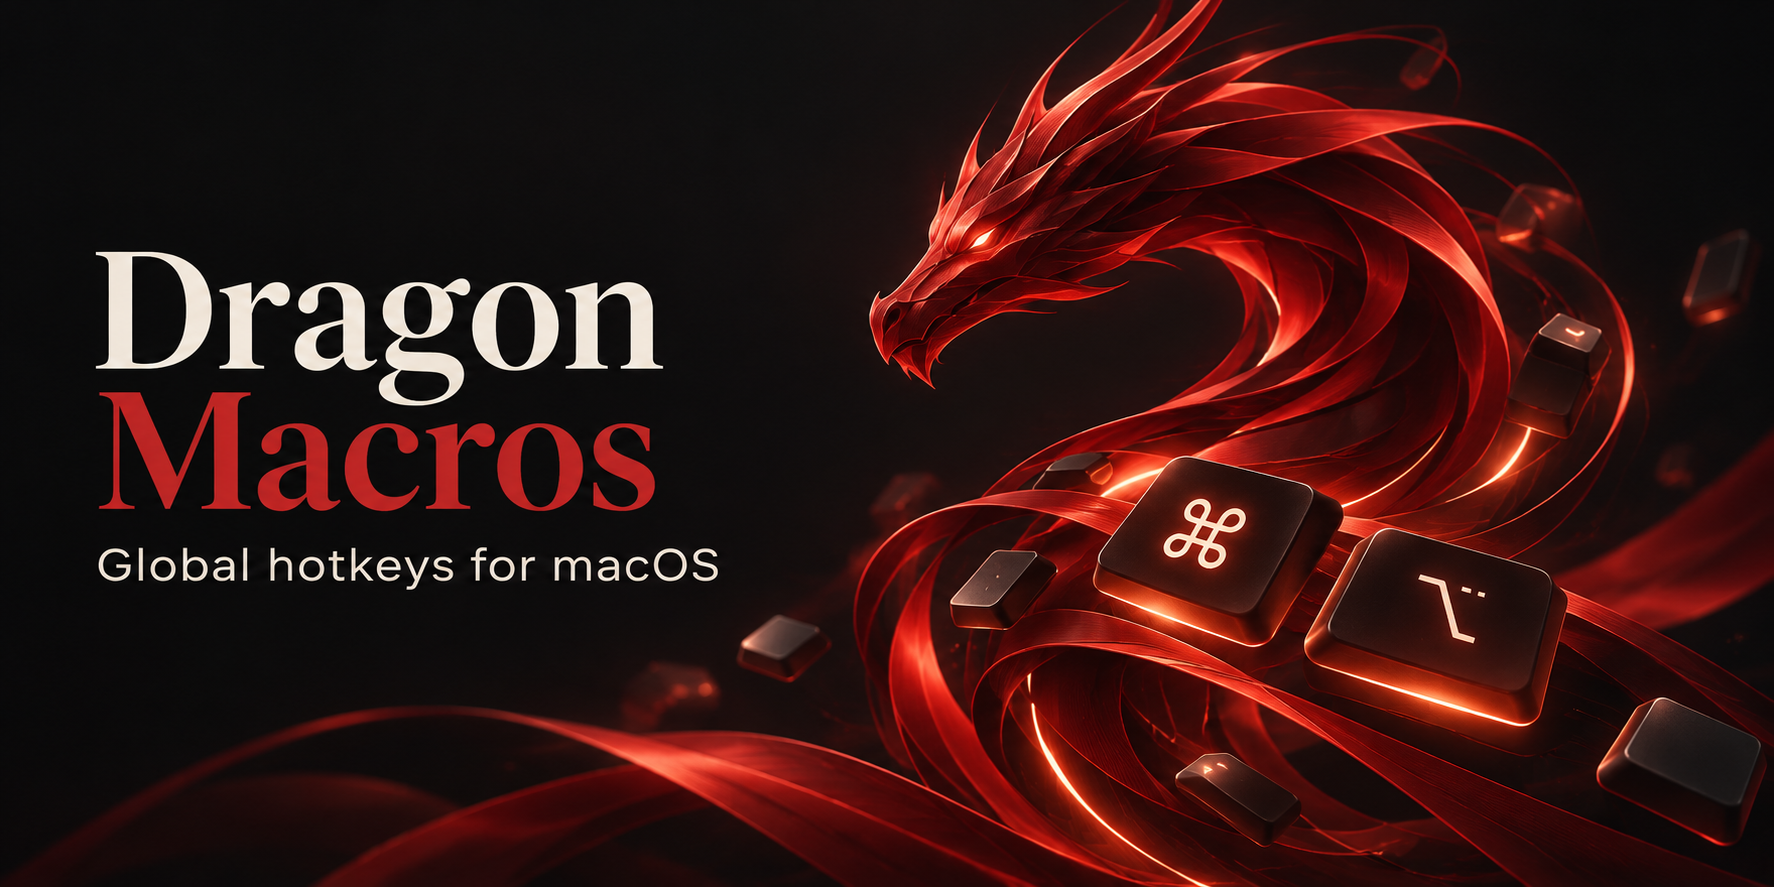
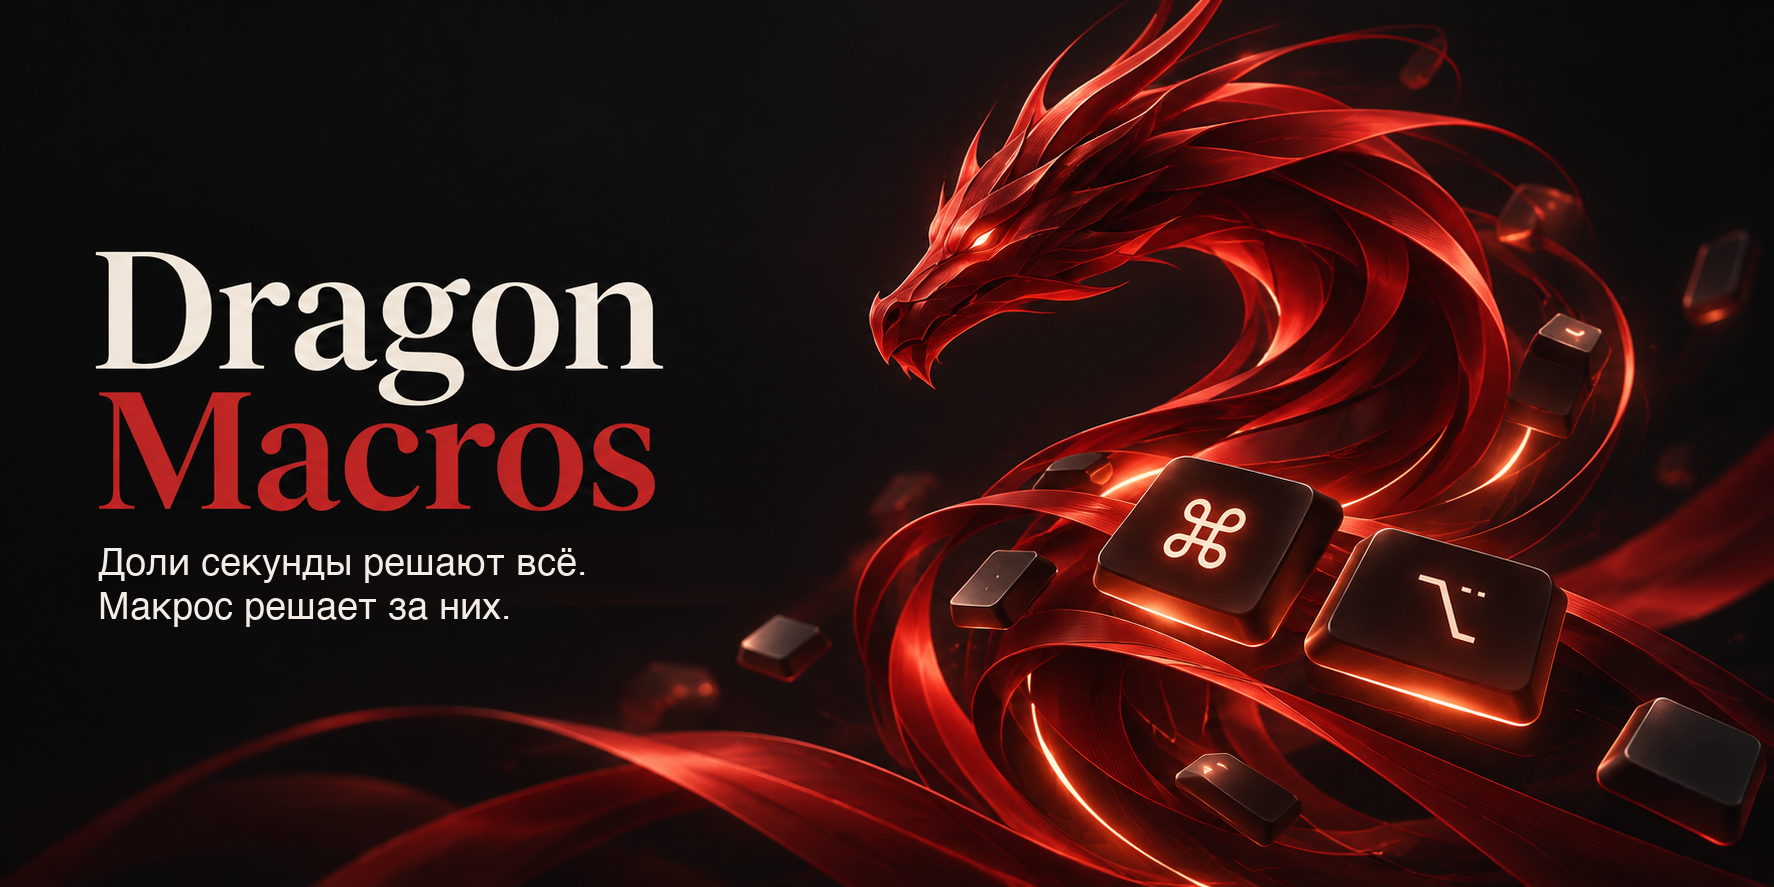
Новый слоган на hero и social-preview

Changed region(s): [[0.031, 0.6088, 0.403, 0.7001]]

diff --git a/Icon/make_hero.py b/Icon/make_hero.py
@@ -1,0 +1,28 @@
+#!/usr/bin/env python3
+"""Заменяет подпись «Global hotkeys for macOS» на слоган в docs/images/hero.png и social-preview.png.
+Исходные картинки (без нового слогана) — Icon/source/hero-original.png и social-original.png. Нужен Pillow."""
+import os
+from PIL import Image, ImageDraw, ImageFont, ImageFilter
+
+HERE = os.path.dirname(os.path.abspath(__file__)); SRC = os.path.join(HERE, "source"); OUT = os.path.join(HERE, "..", "docs", "images")
+FONT = "/System/Library/Fonts/Helvetica.ttc"
+LINES = ["Доли секунды решают всё.", "Макрос решает за них."]
+
+def build(src, dst, k):
+    im = Image.open(os.path.join(SRC, src)).convert("RGB")
+    s = im.width / 1774                      # координаты заданы для hero (1774 px)
+    x0, x1, y0, y1 = int(80 * s), int(755 * s), int(534 * s), int(606 * s)
+    # заливка: по каждой строке плавный переход от цвета фона слева к цвету фона справа от старой подписи
+    for y in range(y0, y1):
+        l = im.crop((int(30 * s), y, int(70 * s), y + 1)).resize((1, 1), Image.BOX).getpixel((0, 0))
+        r = im.crop((int(760 * s), y, int(790 * s), y + 1)).resize((1, 1), Image.BOX).getpixel((0, 0))
+        for x in range(x0, x1):
+            t = (x - x0) / (x1 - x0)
+            im.putpixel((x, y), tuple(round(l[i] + (r[i] - l[i]) * t) for i in range(3)))
+    d = ImageDraw.Draw(im); f = ImageFont.truetype(FONT, int(38 * s))
+    for i, t in enumerate(LINES):
+        d.text((int(98 * s), int((545 + 44 * i) * s)), t, font=f, fill=(244, 236, 230))
+    im.save(os.path.join(OUT, dst), optimize=True)
+
+if __name__ == "__main__":
+    build("hero-original.png", "hero.png", 1); build("social-original.png", "social-preview.png", 1)

diff --git a/docs/ARTWORK.md b/docs/ARTWORK.md
@@ -17,9 +17,10 @@ flat bold silhouette, no text, no gradients, no existing brand imitation.
 
 - `docs/images/hero.png`: основной AI-баннер.
 - `docs/images/social-preview.png`: вариант 1280×640 для GitHub Social preview.
+- В 0.3 подпись «Global hotkeys for macOS» на этих двух картинках заменена слоганом «Доли секунды решают всё. Макрос решает за них.» скриптом `Icon/make_hero.py` из исходников `Icon/source/hero-original.png` и `social-original.png`.
 - `docs/images/features.svg`, `privacy.svg`, `build.svg`: текстовые информационные баннеры SVG.
 - `Icon/source/dragon-logo-original.png`: новый источник логотипа.
 - Остальные изображения `Icon/source/`: производные `Icon/prepare_logo.py` (в 0.3: крупная эмблема 1024×1024 на кремовом фоне, значок строки меню — дракон в кольце).
 
 Повторная подготовка иконок: `python3 Icon/prepare_logo.py` (нужен Pillow).
-`Icon/make_banner.py` создаёт альтернативный баннер `banner.png` из новой эмблемы.
+`Icon/make_hero.py` накладывает слоган на hero и social-preview. `Icon/make_banner.py` создаёт альтернативный баннер `banner.png` из новой эмблемы.

diff --git a/CHANGELOG.md b/CHANGELOG.md
@@ -6,6 +6,7 @@
 - Оформление в стиле macOS: кнопки шапки с символами SF Symbols и подсветкой при наведении, исправлена кнопка «Настройки».
 - Чёткая крупная эмблема дракона в шапке, новый слоган «Доли секунды решают всё. Макрос решает за них».
 - Значок в строке меню: дракон в круге вместо буквы «M».
+- Новый слоган на hero-баннере и превью для соцсетей.
 - Более тёмная и спокойная палитра всех стилей.
 - Сборка: версия 0.3, новая цель `pkg` (установочный пакет), контрольные суммы `dist/SHA256SUMS.txt` для всех установщиков.
 

diff --git a/README.md b/README.md
@@ -68,7 +68,7 @@ git config core.hooksPath .githooks
 |---|---|
 | `Sources/main.swift` | всё приложение (AppKit + Carbon) |
 | `build.sh` | сборка `.app`, иконки, ad-hoc подпись, установка, `.dmg`, `.pkg` |
-| `Icon/` | `make_icons.py` (иконки), `prepare_logo.py` (ресурсы из логотипа, нужен Pillow), `make_banner.py` (баннер) |
+| `Icon/` | `make_icons.py` (иконки), `prepare_logo.py` (ресурсы из логотипа, нужен Pillow), `make_banner.py` (баннер), `make_hero.py` (слоган на hero) |
 | `Icon/source/` | исходный логотип и подготовленные ресурсы |
 | `docs/images/hero.png` | баннер проекта |
 | `.githooks/` | хук pre-commit против утечки секретов |
